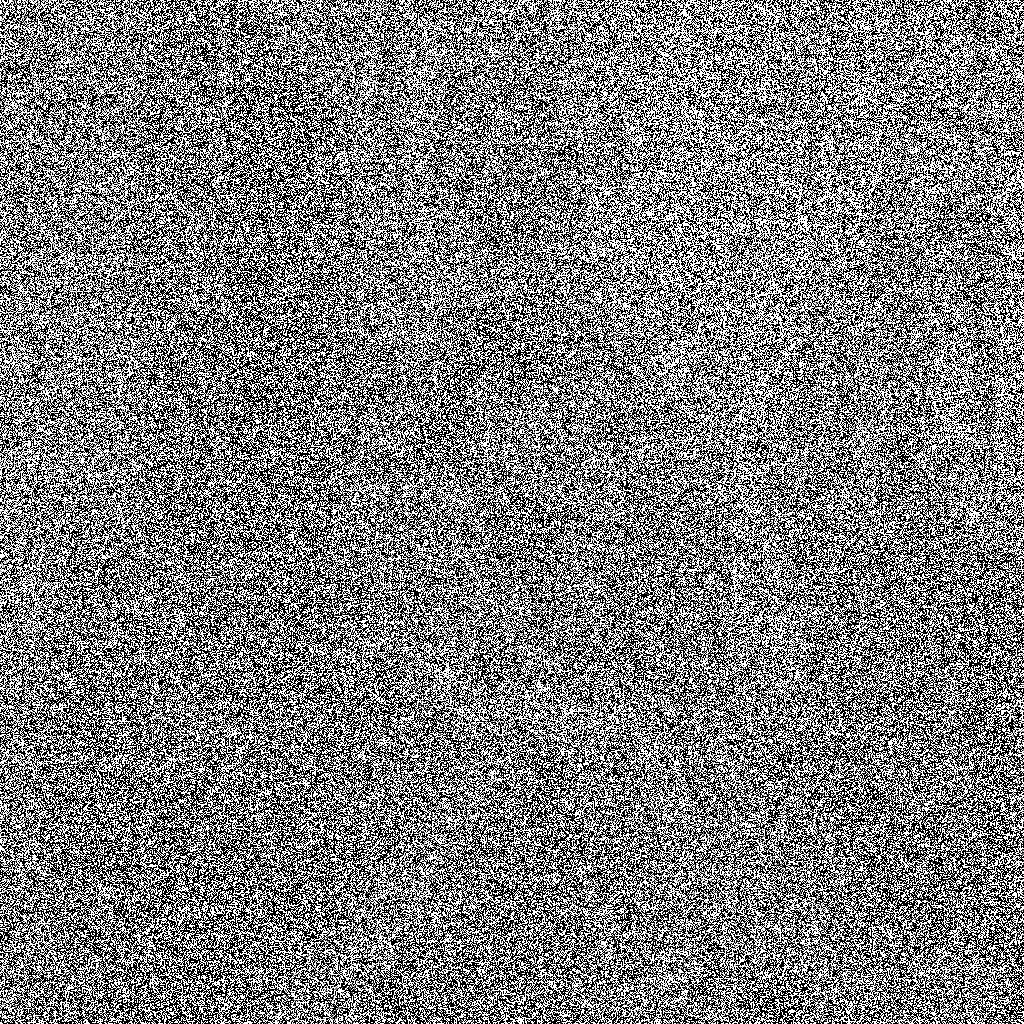
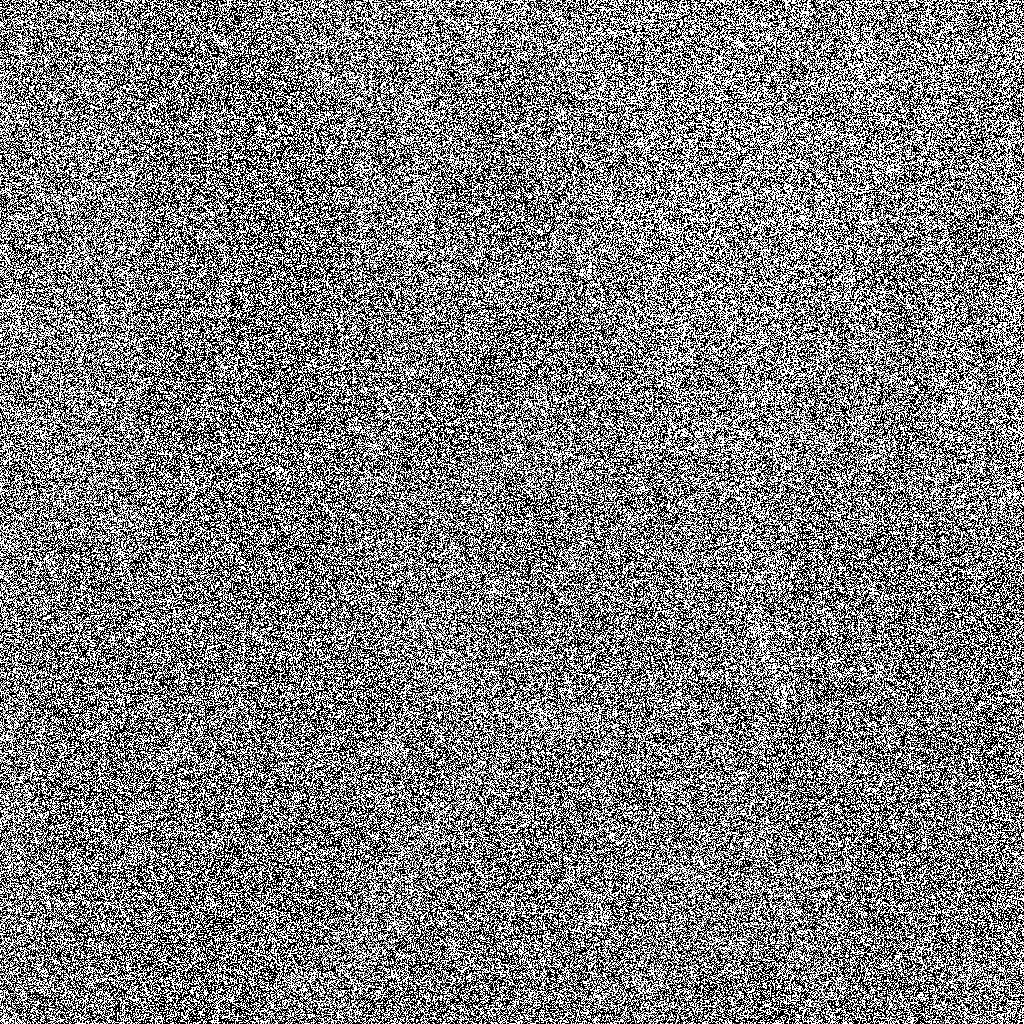
PSNR : 22.03 SSIM : 0.6685

diff --git a/Filtering_Methods.py b/Filtering_Methods.py
@@ -19,8 +19,8 @@ def median_filter(A):
     m, n = A.shape
     img_filt = A.copy()
     
-    # 1루트 기준값은 6으로 시작합니다.
-    k = 6 
+    # 기준값 k를 4로 고정합니다. (테스트용)
+    k = 4 
     route_count = 0
     
     while True:
@@ -68,14 +68,11 @@ def median_filter(A):
             # 복구된 평균값을 대입
             img_filt[update_mask] = med_vals.astype(np.uint8)
             
-            # 추가 변경이 발생했으므로 k 값은 깎지 않고 유지합니다.
+            # 추가 변경이 발생했으므로 동일한 k(4) 값으로 다음 루트 진행
         else:
-            if k > 1:
-                k -= 1
-            else:
-                # k가 1까지 내려왔음에도 더 이상 바뀔 노이즈가 없다면 무한루프 방지
-                print(f"[Median Filter] 경고: 주변에 0/255만 있어 더이상 노이즈를 완전히 지울 수 없습니다. {route_count}루트에서 조기 종료합니다.")
-                break
+            # k=4 고정이므로, 이번 루트에서 변화가 없었다면 더 이상 살릴 수 있는 픽셀이 없으므로 종료합니다.
+            print(f"[Median Filter] 알림: k={k} 조건에서 복구할 수 있는 노이즈가 더 이상 없어 {route_count}루트에서 종료합니다.")
+            break
 
     return img_filt.astype(np.uint8)
 
